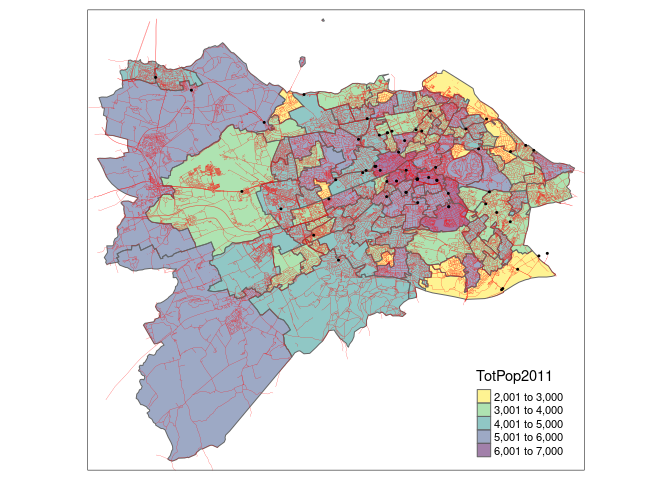
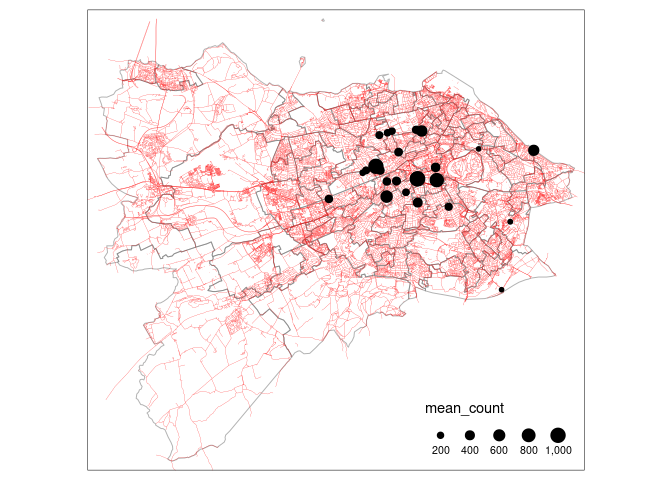
Iterate on paper

diff --git a/README.md b/README.md
@@ -71,7 +71,8 @@ datasets for subsequent geographic analysis steps.
 
 The geographic input datasets on which the analysis presented in this
 paper build are cleaned versions of open datasets representing the
-transport system in Edinburgh:
+transport system in Edinburgh (see Figure
+<a href="#fig:overview">2.1</a>):
 
 -   Open access cycle counter data, stored in
     [`cycle_counts_59_edinburgh_summary_2020-03-02-2022-01-05.geojson`](https://github.com/Robinlovelace/odnet/releases/download/0/cycle_counts_59_edinburgh_summary_2020-03-02-2022-01-05.geojson)
@@ -93,7 +94,23 @@ the first three elements of which are presented in the table below.
 
 Table 2.1: Sample of three rows from the OD dataset used in this paper.
 
-![](README_files/figure-gfm/overview-1.png)<!-- -->
+![Figure 2.1: Overview of the study area and the input geographic
+datasets. Dot size is proportional to mean cycle count at counter
+locations.](README_files/figure-gfm/overview-1.png)
+
+To test the performance of different parameters and settings for the
+OD-to-route-network conversion process, we focussed only on cycling
+trips as these were measured in the counter dataset mentioned. The
+following parameters were adjusted to explore their importance, in
+roughly descending order of frequency of mentions in the literature:
+
+1.  The routing profile used, which can ‘prefer’ differet route types,
+    resulting in ‘quiet’ to ‘fast’ networks (Desjardins et al. 2021)
+2.  The level of disaggregation, ranging from none to full
+    disaggregation (on desire line and route per trip) (Jafari et al.
+    2015)
+3.  Jittering strategy used to sample origin and destination points
+    within zones (Lovelace, Félix, and Carlino 2022)
 
 <!-- To run algorithm you need a minimum of three inputs, examples of which are provided in the `data/` folder of this repo: -->
 <!-- 1. A .csv file containing OD data with two columns containing zone IDs (specified with  `--origin-key=geo_code1 --destination-key=geo_code2` by default) and other columns representing trip counts: -->
@@ -130,22 +147,19 @@ Table 2.1: Sample of three rows from the OD dataset used in this paper.
 <!--   --max-per-od 10 --output-path output_max10.geojson -->
 <!-- ``` -->
 
-# 3 Outputs
+# 3 Findings
 
-The figure below shows the output of the `jitter` commands above
-visually, with the left image showing unjittered results with origins
-and destinations going to zone centroids (as in many if not most
-visualisations of desire lines between zones), the central image showing
-the result after setting `max-per-od` argument to 50, and the right hand
-figure showing the result after setting `max-per-od` to 10.
+Figure <a href="#fig:output1"><strong>??</strong></a> shows the output
+of the `jitter` commands above visually, with the .
 
-<img src="README_files/figure-gfm/unnamed-chunk-5-1.png" width="30%" /><img src="README_files/figure-gfm/unnamed-chunk-5-2.png" width="30%" /><img src="README_files/figure-gfm/unnamed-chunk-5-3.png" width="30%" />
+<img src="README_files/figure-gfm/output1-1.png" title="Results at the desire line level. The left image showing unjittered results with origins and destinations going to zone centroids (as in many if not most visualisations of desire lines between zones), the central image showing the result after setting `max-per-od` argument to 50, and the right hand figure showing the result after setting `max-per-od` to 10" alt="Results at the desire line level. The left image showing unjittered results with origins and destinations going to zone centroids (as in many if not most visualisations of desire lines between zones), the central image showing the result after setting `max-per-od` argument to 50, and the right hand figure showing the result after setting `max-per-od` to 10" width="30%" /><img src="README_files/figure-gfm/output1-2.png" title="Results at the desire line level. The left image showing unjittered results with origins and destinations going to zone centroids (as in many if not most visualisations of desire lines between zones), the central image showing the result after setting `max-per-od` argument to 50, and the right hand figure showing the result after setting `max-per-od` to 10" alt="Results at the desire line level. The left image showing unjittered results with origins and destinations going to zone centroids (as in many if not most visualisations of desire lines between zones), the central image showing the result after setting `max-per-od` argument to 50, and the right hand figure showing the result after setting `max-per-od` to 10" width="30%" /><img src="README_files/figure-gfm/output1-3.png" title="Results at the desire line level. The left image showing unjittered results with origins and destinations going to zone centroids (as in many if not most visualisations of desire lines between zones), the central image showing the result after setting `max-per-od` argument to 50, and the right hand figure showing the result after setting `max-per-od` to 10" alt="Results at the desire line level. The left image showing unjittered results with origins and destinations going to zone centroids (as in many if not most visualisations of desire lines between zones), the central image showing the result after setting `max-per-od` argument to 50, and the right hand figure showing the result after setting `max-per-od` to 10" width="30%" />
 
-# 4 Findings
+<!-- Todo: update the above figure with more variations and show resulting route networks below -->
+<!-- Todo: present results comparing flow from counter data with route network results -->
 
-# 5 Discussion
+# 4 Discussion
 
-# 6 Acknowledgements
+# 5 Acknowledgements
 
 Acknowledgement should be made of any funding bodies who have supported
 the work reported in the paper, of those who have given permission for
@@ -153,12 +167,12 @@ their work to be reproduced or of individuals whose particular
 assistance is due recognition. Acknowledge data providers here where
 appropriate.
 
-# 7 Biography
+# 6 Biography
 
 All contributing authors should include a biography of no more than 50
 words each outlining their career stage and research interests.
 
-# 8 References
+# 7 References
 
 <div id="refs" class="references csl-bib-body hanging-indent">
 
@@ -177,6 +191,34 @@ Carey, Malachy, Chris Hendrickson, and Krishnaswami Siddharthan. 1981.
 “A Method for Direct Estimation of Origin/Destination Trip Matrices.”
 *Transportation Science* 15 (1): 32–49.
 <https://doi.org/10.1287/trsc.15.1.32>.
+
+</div>
+
+<div id="ref-desjardins_correlates_2021" class="csl-entry">
+
+Desjardins, Elise, Christopher D. Higgins, Darren M. Scott, Emma Apatu,
+and Antonio Páez. 2021. “Correlates of Bicycling Trip Flows in Hamilton,
+Ontario: Fastest, Quietest, or Balanced Routes?” *Transportation*, June.
+<https://doi.org/10.1007/s11116-021-10197-1>.
+
+</div>
+
+<div id="ref-jafari_investigation_2015" class="csl-entry">
+
+Jafari, Ehsan, Mason D. Gemar, Natalia Ruiz Juri, and Jennifer Duthie.
+2015. “Investigation of Centroid Connector Placement for Advanced
+Traffic Assignment Models with Added Network Detail.” *Transportation
+Research Record: Journal of the Transportation Research Board* 2498
+(June): 19–26. <https://doi.org/10.3141/2498-03>.
+
+</div>
+
+<div id="ref-lovelace_jittering_2022" class="csl-entry">
+
+Lovelace, Robin, Rosa Félix, and Dustin Carlino. 2022. “Jittering: A
+Computationally Efficient Method for Generating Realistic Route Networks
+from Origin-Destination Data,” January.
+<https://doi.org/10.31219/osf.io/qux6g>.
 
 </div>
 
